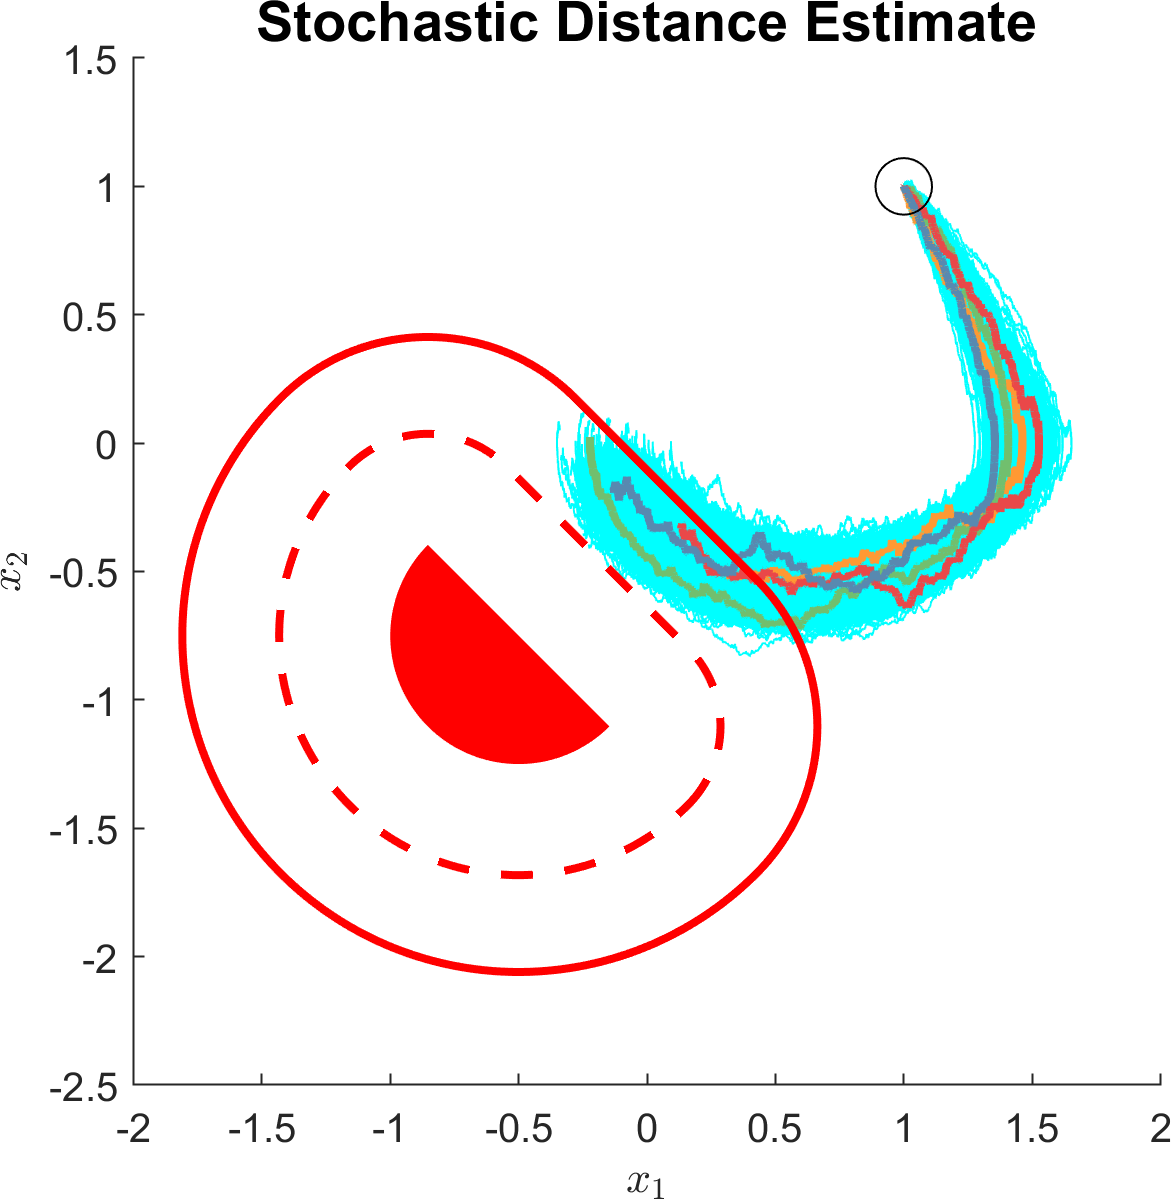
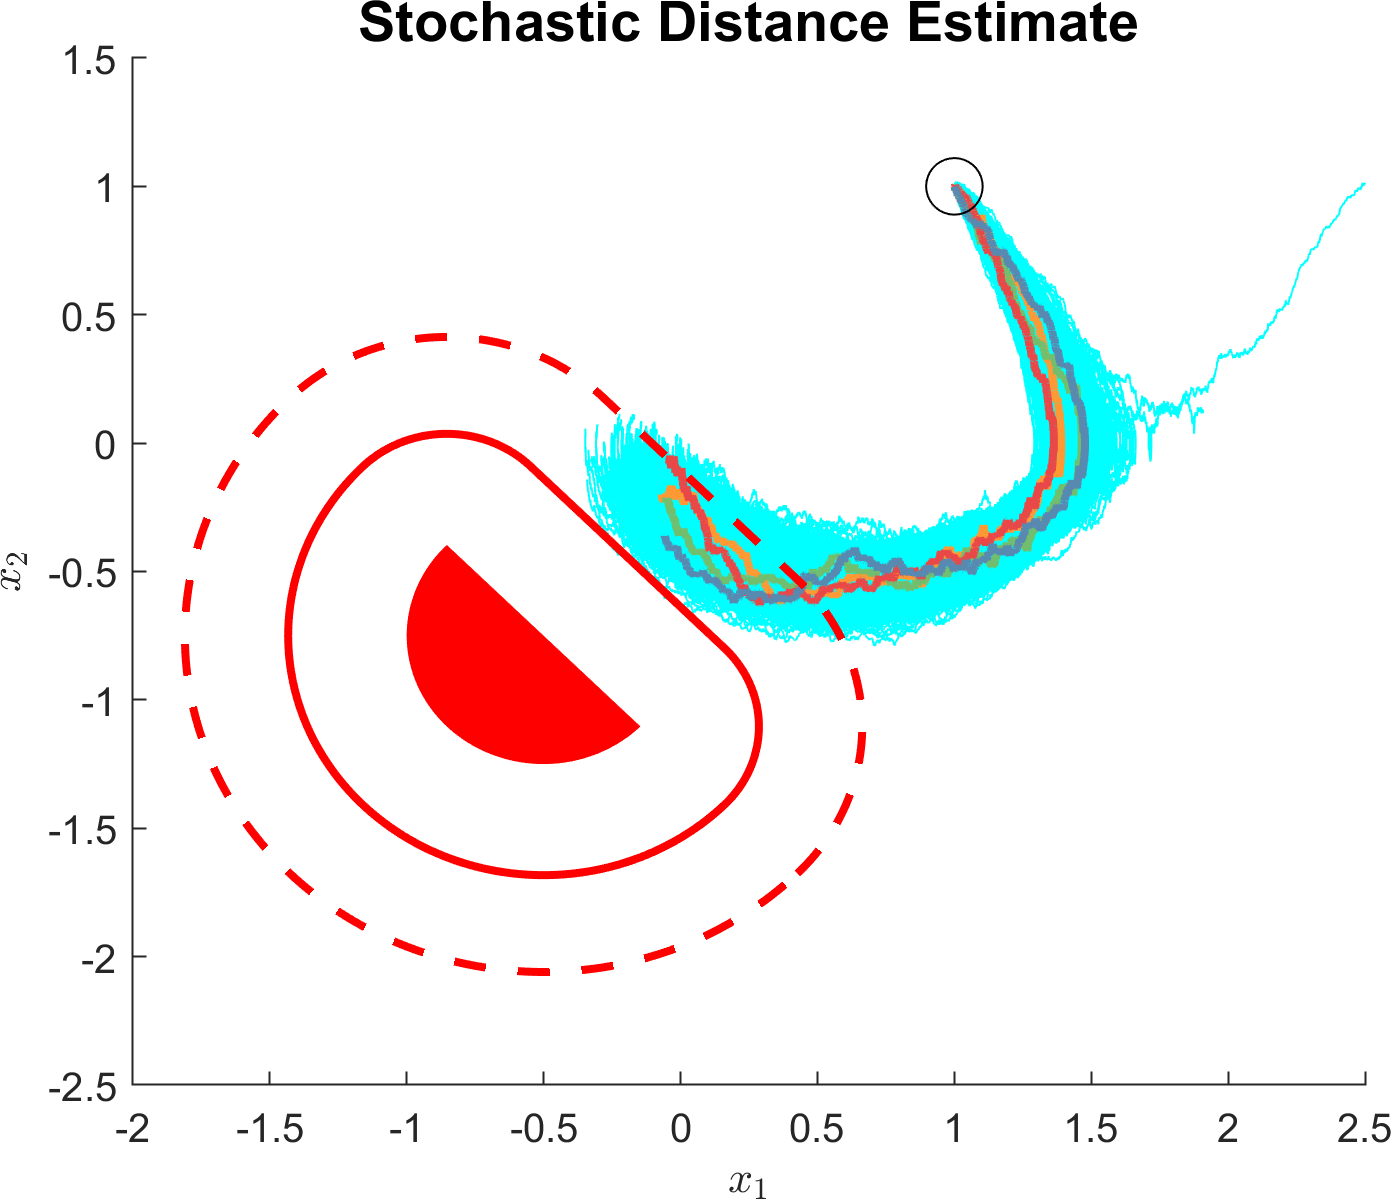
Corrected distance-estimation figure

diff --git a/testing/sample/sde_flow_test_2d_unsafe.m b/testing/sample/sde_flow_test_2d_unsafe.m
@@ -68,8 +68,8 @@ x_dist_mean = Rot_mat*x_dist_mean_align + Cu;
 x_dist_eps = Rot_mat*x_dist_eps_align + Cu;
 
     
-plot(x_dist_mean(1, :), x_dist_mean(2, :), 'r', 'DisplayName', 'Distance Contour', 'LineWidth', 2)
-plot(x_dist_eps(1, :), x_dist_eps(2, :), 'r--', 'DisplayName', 'Distance Contour', 'LineWidth', 2)
+plot(x_dist_mean(1, :), x_dist_mean(2, :), 'r--', 'DisplayName', 'Distance Contour', 'LineWidth', 2)
+plot(x_dist_eps(1, :), x_dist_eps(2, :), 'r', 'DisplayName', 'Distance Contour', 'LineWidth', 2)
 
 
 %TODO: plot the distance contour
